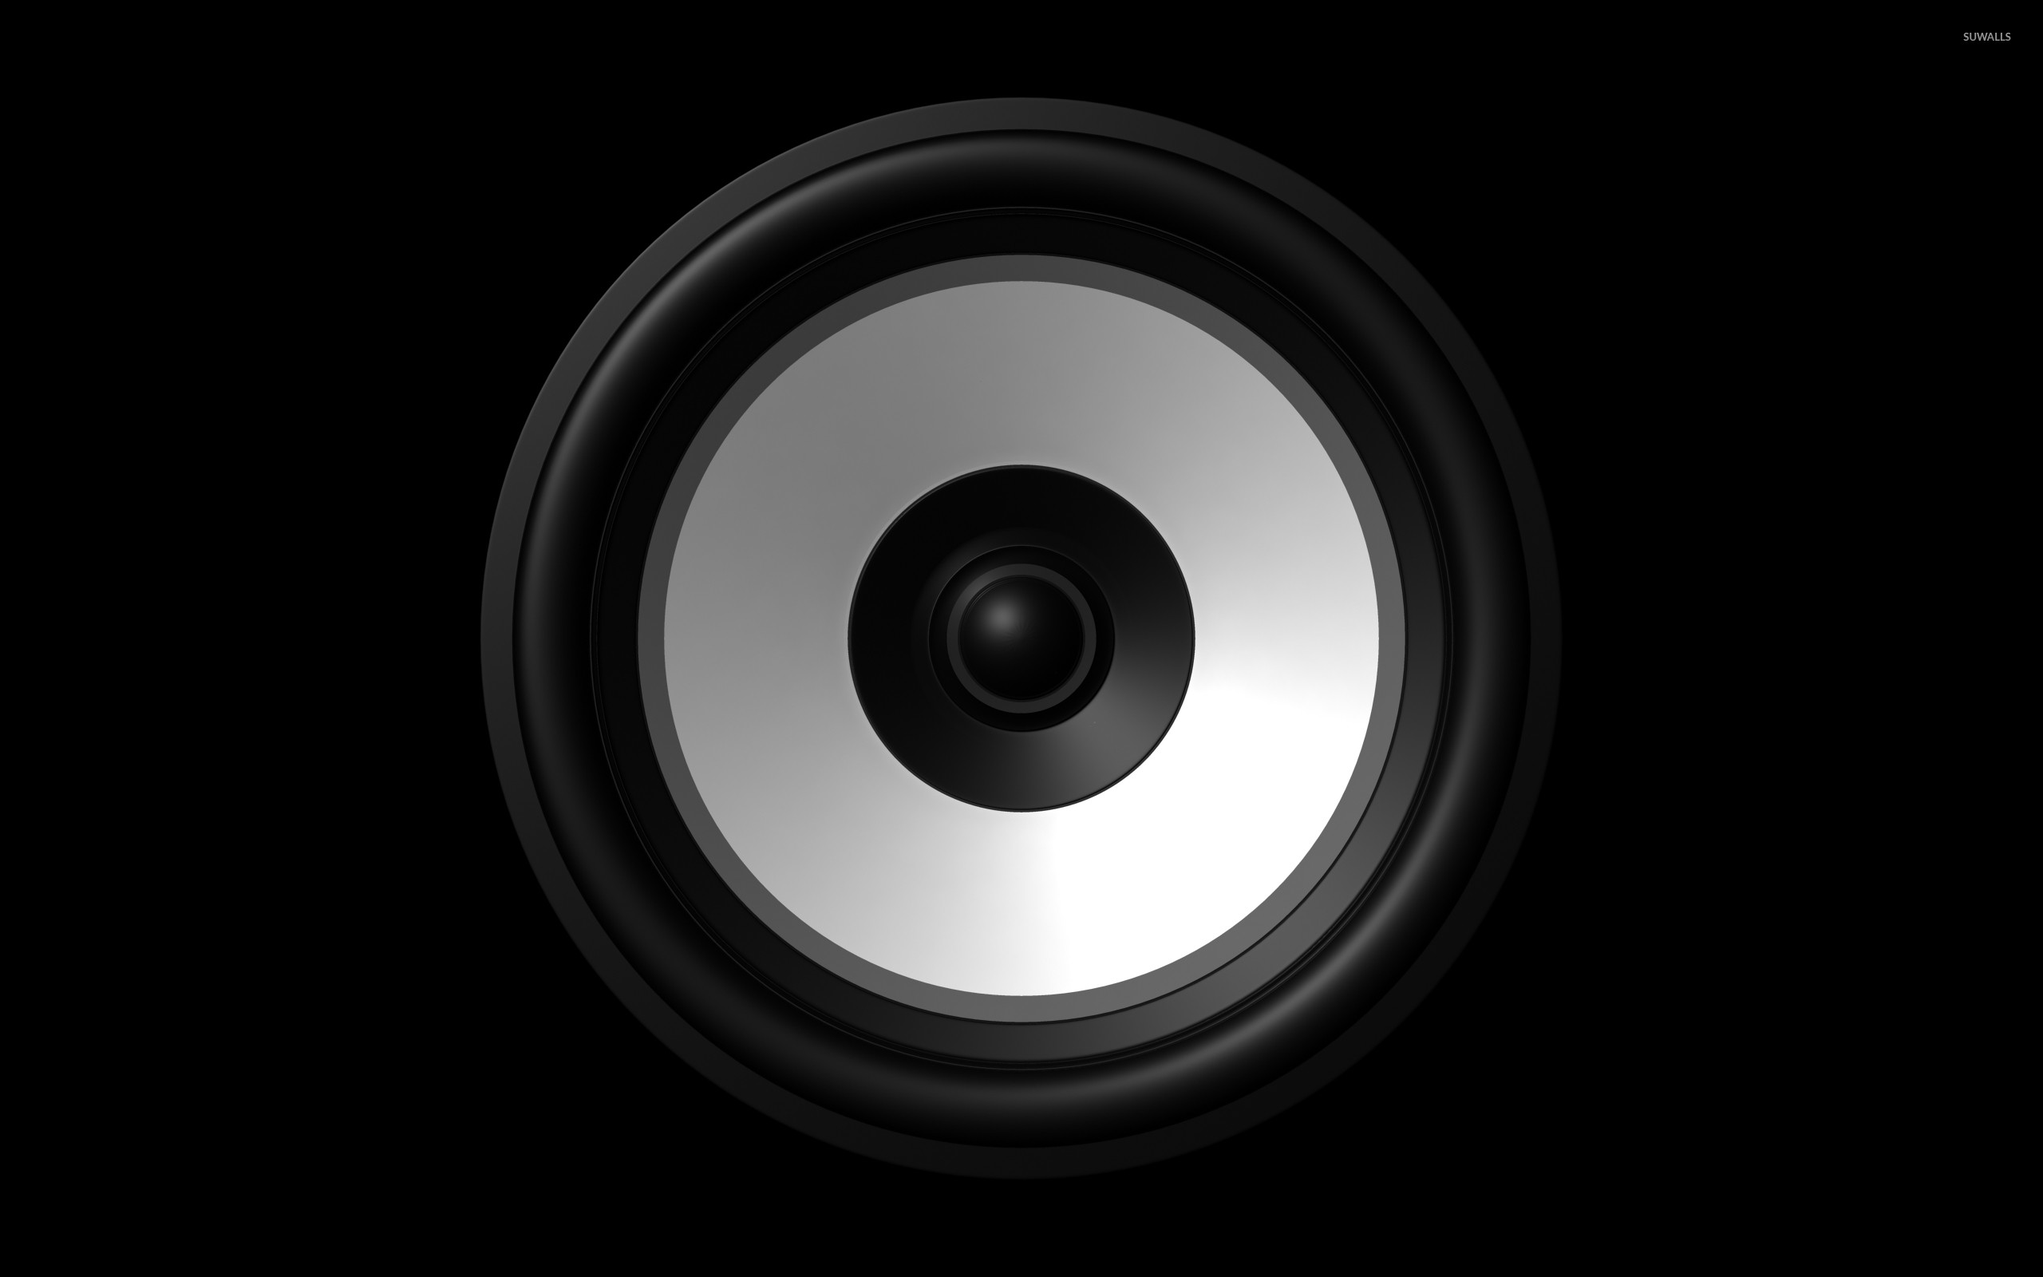
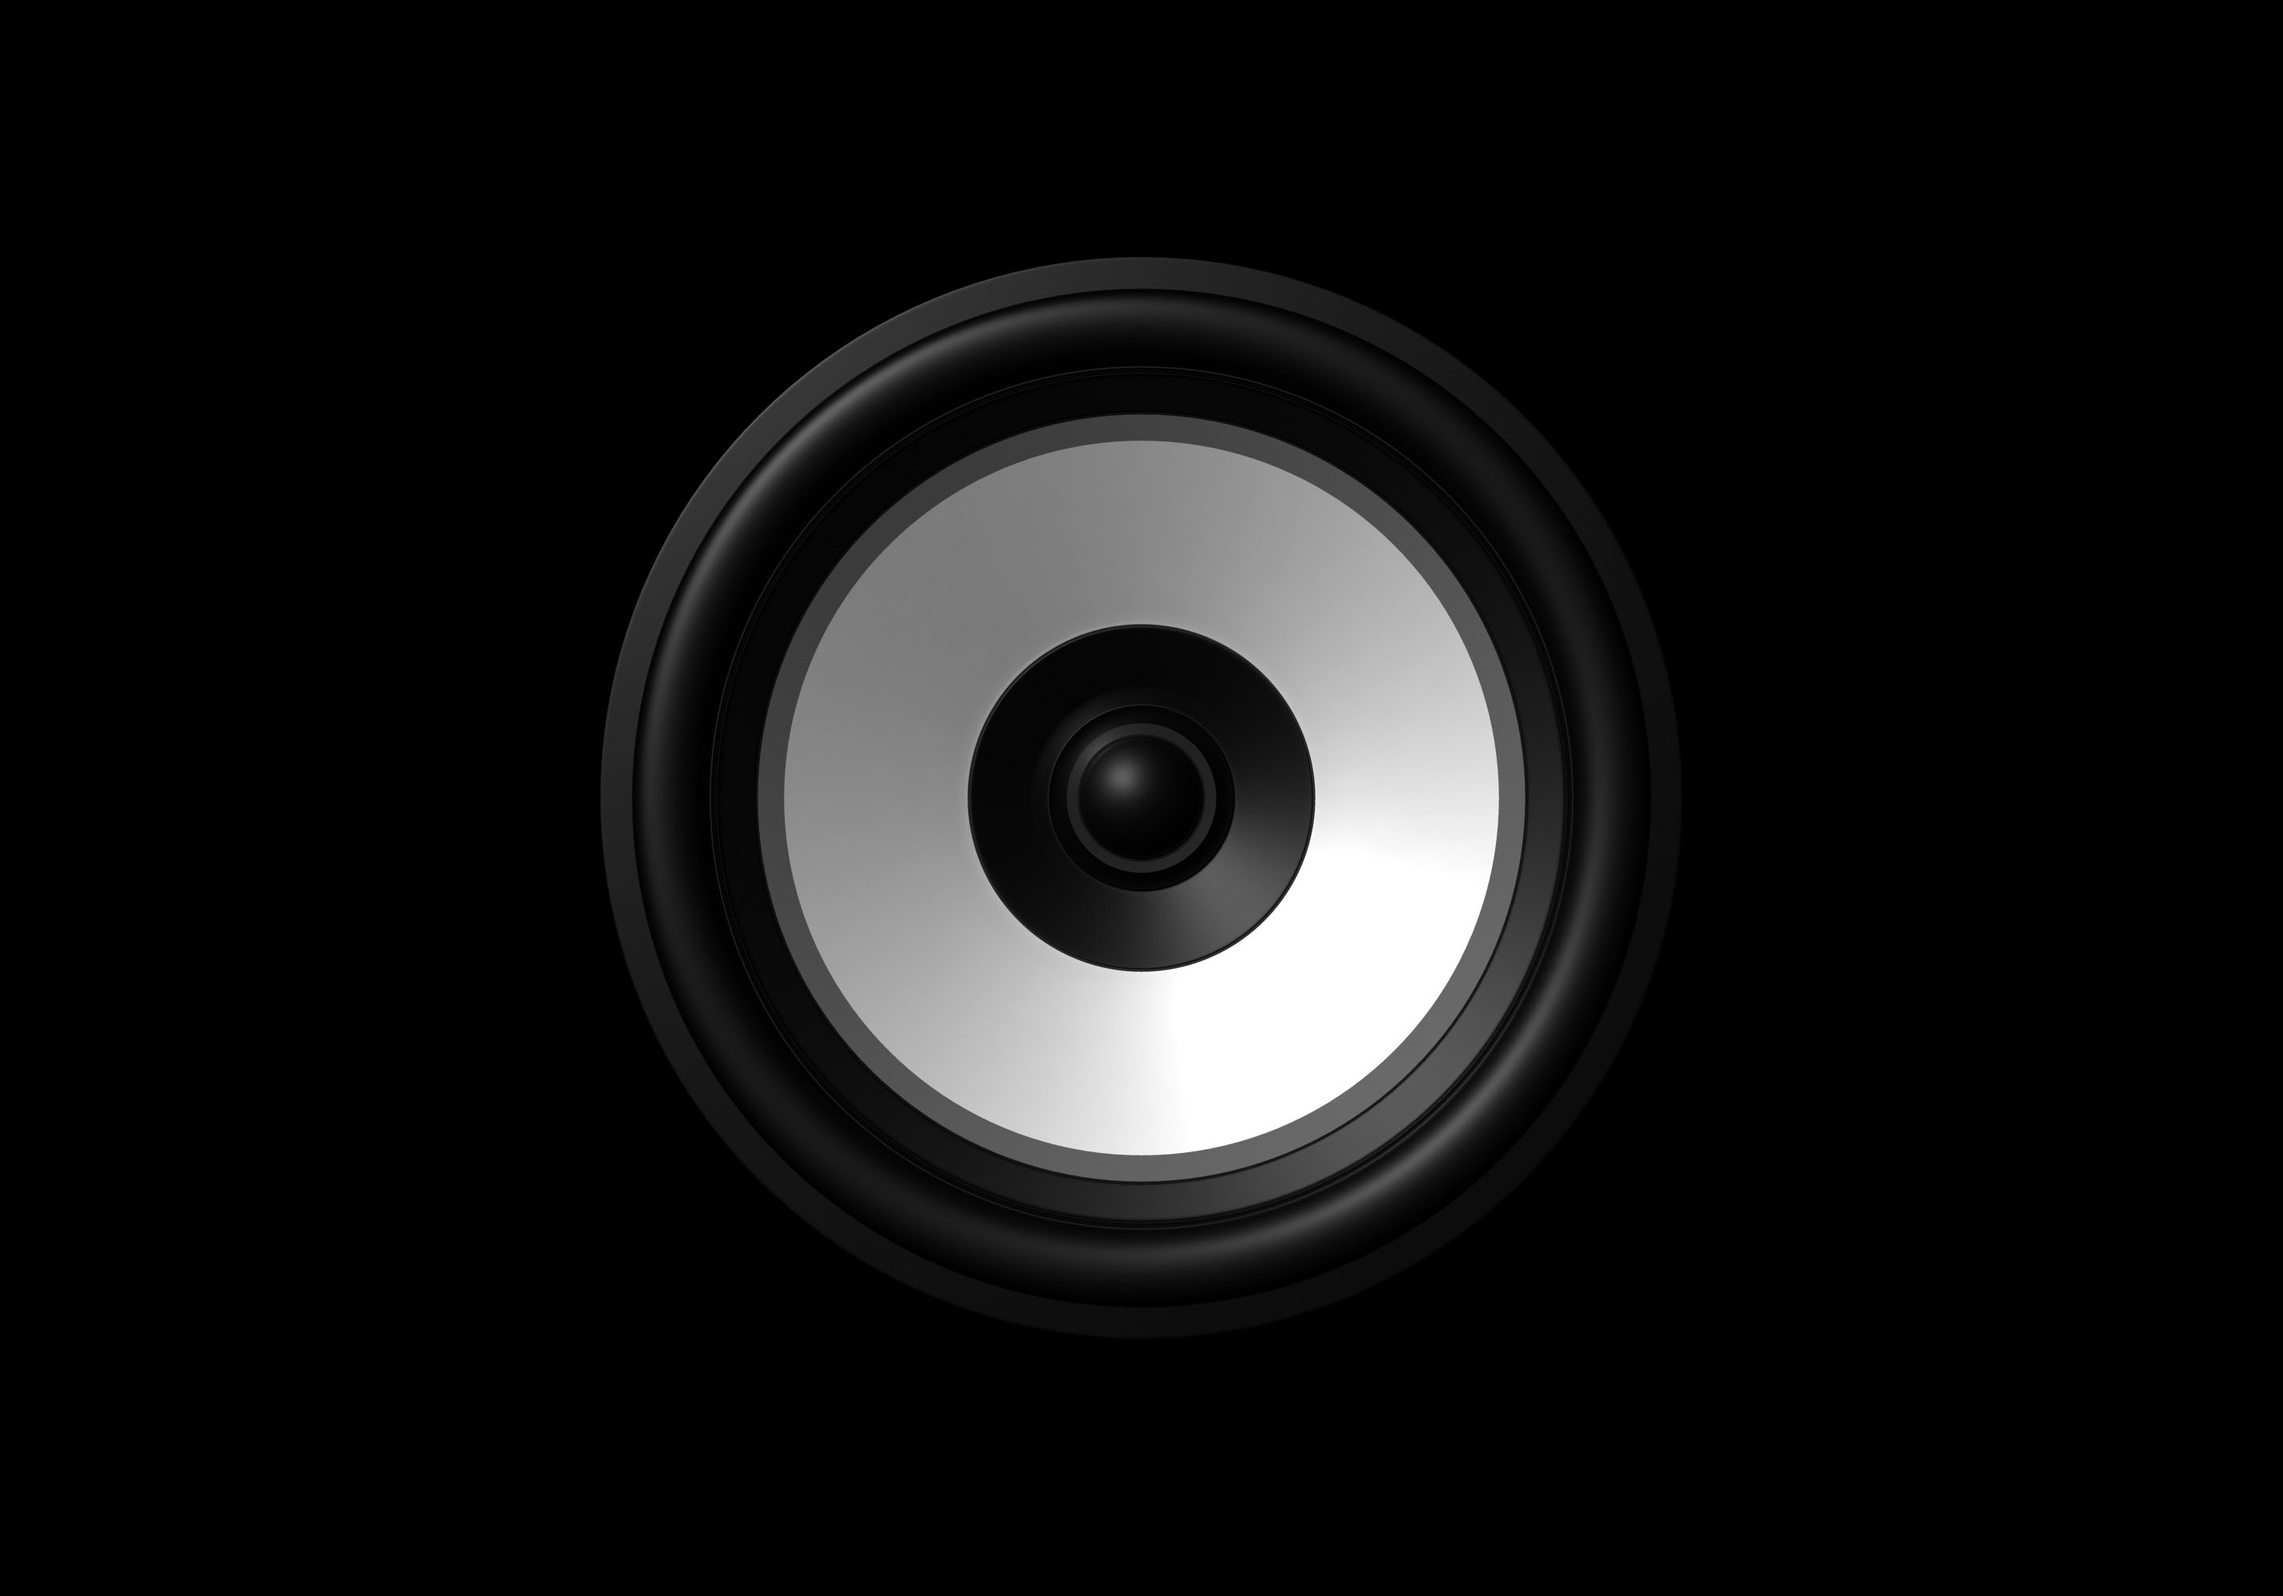
speaker

diff --git a/src/pages/Raggatek.js b/src/pages/Raggatek.js
@@ -1,41 +1,81 @@
 import React, { useEffect, useState } from "react";
 import styled, { keyframes } from "styled-components";
 // import fire from "../images/fire.gif";
-import illusion from "../images/background_illusion_4.jpg";
+import speaker from "../images/speaker.jpg";
+
+const CIRCLE_DIAMETER = 500;
+const MAX_MEDIA_WIDTH = 1000;
 
 const Background = styled.div`
 	background-color: black;
+	color: white;
 `;
 
 const FirstScreen = styled.div`
-	background-image: url(${illusion});
-	background-size: cover;
-	background-position: 50% 50%;
 	min-height: 100vh;
+	display: flex;
+	align-items: center;
+	flex-wrap: wrap;
+
+	@media(max-width: ${MAX_MEDIA_WIDTH}px) {
+  }
+`;
+
+const Side = styled.div`
+	width: 200px;
+	padding: 20px;
+	text-align: center;
+	flex: 0 1 auto;
+
+	@media(max-width: ${MAX_MEDIA_WIDTH}px) {
+		order: 2;
+		flex: 1 1 auto;
+  }
+`;
+
+const Center = styled.div`
+	flex: 1 1 auto;
+	min-width: ${CIRCLE_DIAMETER}px;
 	display: flex;
 	justify-content: center;
 	align-items: center;
+
+	@media(max-width: ${MAX_MEDIA_WIDTH}px) {
+		height: 100%;
+		order: 1;
+		width: 100%;
+	}
 `;
 
 const rotate = keyframes`
   from {
-		opacity: 0;
-    transform: scale(0);
+    transform: scale(1);
   }
 
   to {
-		opacity: 1;
     transform: scale(1);
   }
+
+	25% {
+    transform: scale(0.9);
+	}
+
+	75% {
+    transform: scale(1.1);
+	}
 `;
 
-const Circle = styled.h1`
-	animation: 5s 1 ${rotate};
+const Speaker = styled.button`
+	border: none;
+	outline: none;
+	animation: 0.3s ease-in-out 1 ${rotate};
 	animation-play-state: ${props => (props.isRunning ? "running" : "paused")};
-	width: 500px;
-	height: 500px;
-	border-radius: 500px;
-	background-color: rgba(255, 255, 255, 0.5);
+	width: ${CIRCLE_DIAMETER}px;
+	height: ${CIRCLE_DIAMETER}px;
+	border-radius: ${CIRCLE_DIAMETER}px;
+	background-image: url(${speaker});
+	background-repeat: no-repeat;
+	background-size: contain;
 	display: flex;
 	justify-content: center;
 	align-items: center;
@@ -48,10 +88,9 @@ const Circle = styled.h1`
 `;
 
 const FusionContainer = styled.div`
-
 	max-width: 800px;
 	min-width: 400px;
-	background-color: rgba(0,0,0,0.5);
+	background-color: rgba(0, 0, 0, 0.5);
 	font-size: 24px;
 `;
 
@@ -70,15 +109,31 @@ const HardtekPage = () => {
 	return (
 		<Background>
 			<FirstScreen>
-				<Circle isRunning={isLoaded}>
-					<Lewkan>lewkan</Lewkan>
-					<p>x26x</p>
-					<p>birthday</p>
-					<p>fusion</p>
-				</Circle>
+				<Side>
+					starts:
+					<p>25.01.2020</p>
+					<p>23:00</p>
+				</Side>
+				<Center>
+					<Speaker isRunning={isLoaded}>
+						<Lewkan>lewkan</Lewkan>
+						<p>x26x</p>
+						<p>birthday</p>
+						<p>fusion</p>
+					</Speaker>
+				</Center>
+				<Side>
+					ends:
+					<p>26.01.2020</p>
+					<p>06:00</p>
+				</Side>
 			</FirstScreen>
 			<FusionContainer>
-				Фьюжн, фьюжен (от англ. fusion, «сплав») — термин, который может входить в название стилей и направлений в искусстве, архитектуре, дизайне, музыке, характеризующихся «сочетанием несочетаемого», то есть объединяющих в себе совершенно разные идеи из, казалось бы, несовместимых стилей, не теряя при этом целостности и гармонии.
+				Фьюжн, фьюжен (от англ. fusion, «сплав») — термин, который может входить
+				в название стилей и направлений в искусстве, архитектуре, дизайне,
+				музыке, характеризующихся «сочетанием несочетаемого», то есть
+				объединяющих в себе совершенно разные идеи из, казалось бы,
+				несовместимых стилей, не теряя при этом целостности и гармонии.
 			</FusionContainer>
 		</Background>
 	);

diff --git a/src/index.js b/src/index.js
@@ -8,7 +8,6 @@ import collegeFont from "./fonts/college.otf";
 import reglisseFont from "./fonts/reglisse.otf";
 import neon from "./fonts/screaming_neon.ttf";
 
-
 createGlobalStyle`
   @font-face {
     font-family: College;
@@ -22,6 +21,16 @@ createGlobalStyle`
     font-family: Neon;
     src: url('${neon}') format('truetype');
   }
+
+	html {
+		box-sizing: border-box;
+	}
+
+	*,
+	*::before,
+	*::after {
+		box-sizing: inherit;
+	}
 `;
 
 ReactDOM.render(
